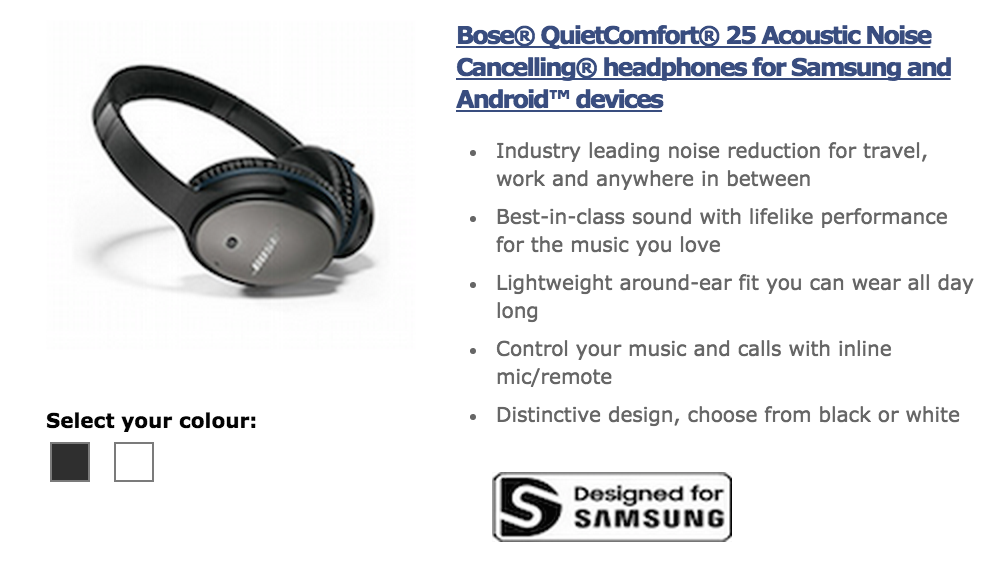
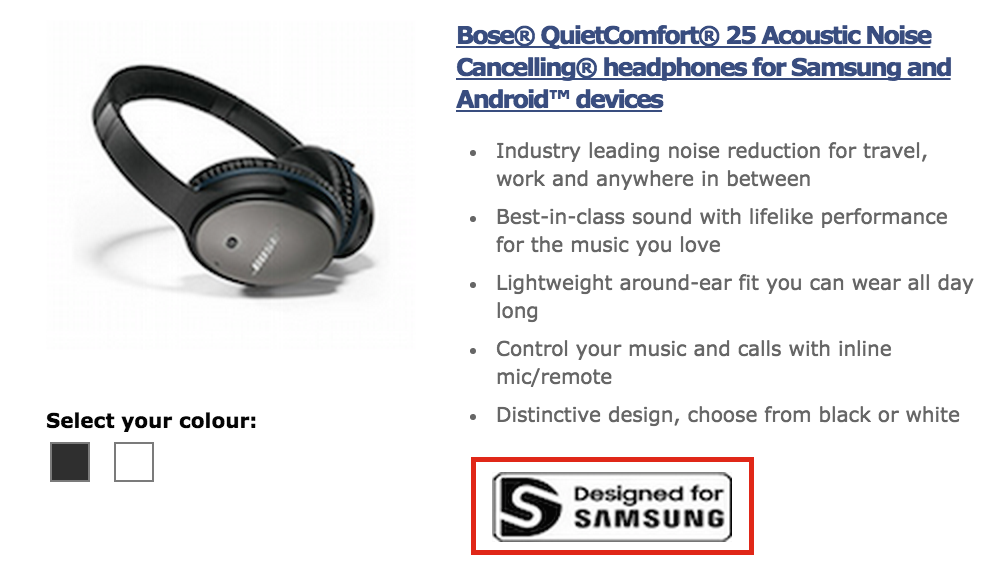
more specific instructions, clearer images

Changed region(s): [[0.4573, 0.7865, 0.7927, 0.9982]]

diff --git a/access/instructions.md b/access/instructions.md
@@ -11,13 +11,13 @@ These are the individual changes you are required to indentify and correct withi
 2. This text is overflowing its container. Resize the container to make sure all the text is visible  
 ![question 2](../noaccess/images/question2.png)  
 
-3. Turn this text into a link to [this url](https://www.bose.co.uk/GB/en/home-and-personal-audio/headphones/audio-and-mobile-headphones/soundtrue-around-ear-headphones/)  
+3. Turn the text in the red box into a link to [this url](https://www.bose.co.uk/GB/en/home-and-personal-audio/headphones/audio-and-mobile-headphones/soundtrue-around-ear-headphones/)  
 ![question 3](../noaccess/images/question3.png)  
 
-4. Move this image 18px to the right, so that it is vertically aligned with the text in the list items above  
+4. Move the "Designed for Samsung" image 18px to the right, so that it is vertically aligned with the text in the list items above  
 ![question 4](../noaccess/images/question4.png)  
 
-5. Change the text content of this div so that it says "amazing life-like". Make sure life-like is all on the same line  
+5. Change the text content of the second list item so that it says "amazing life-like". Make sure life-like is all on the same line  
 ![question 5](../noaccess/images/question5.png)
 
 

diff --git a/README.md b/README.md
@@ -17,8 +17,8 @@ Give yourself 45 minutes to complete the challenge. If you are feeling adventuro
 - There will be two folders: /access & /noaccess. Do not edit anything in the /noaccess folder  
 - Enter the command ```python -m SimpleHTTPServer``` to start a simple server that will serve every file in your current directory and below  
 - Within /access there will be an HTML file and an empty CSS file. This is where you will make your changes  
-- There will also be a instructions sheet.  contains the questions and will indicate the fixes/improvements you are required to make to the products.html file  
-- Open ```products.html``` in your favourite browser and begin the test  
+- There will also be a instructions sheet. View it on [GitHub](https://github.com/rorysedgwick/moose/blob/master/access/instructions.md) to see the accompanying images. This contains the questions and will indicate the fixes/improvements you are required to make to the products.html file  
+- Navigate to http://localhost:8000/access/products.html in your favourite web browser to begin the test  
 
 
 The company that set the challenge that inspired this example will remain anonymous, and the test has been sufficiently modified to not exactly mirror the questions asked.
